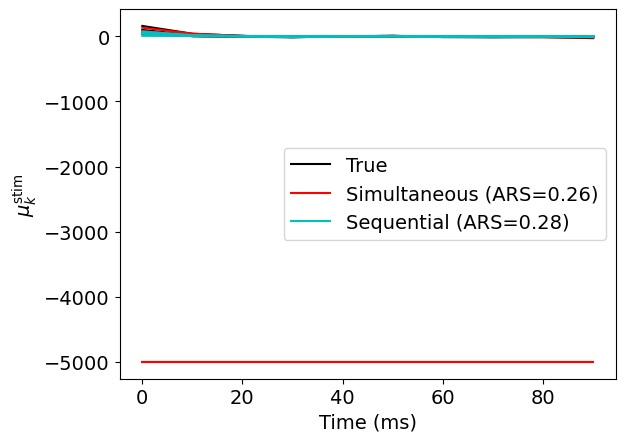
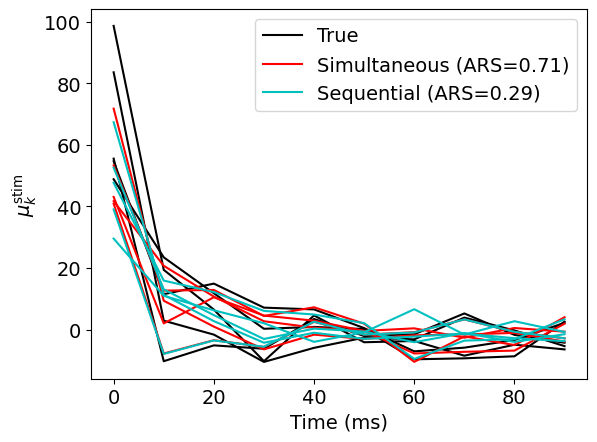
successful K=5

diff --git a/models.py b/models.py
@@ -93,7 +93,7 @@ def sim_GMMGLM_from_fit(D, drange = 20000, downsample=None):
     ks = ks[np.isin(ks,true_ks)]
     K_sim = 5
     true_mu_plus_cis = true_mus-2*true_sigmas/np.sqrt(d[0]+2)
-    which_k_over = np.array([-3 < true_mu_plus_cis[k,-1] + np.max(true_mu_plus_cis[k,d[0]:-1]) + np.sum(true_mu_plus_cis[k,:d[0]])*np.mean(np.max(sim_stim,axis=1)[true_ks==k]) and D['wts'][k]>0.03 for k in ks])
+    which_k_over = np.array([-2 < true_mu_plus_cis[k,-1] + np.max(true_mu_plus_cis[k,d[0]:-1]) + np.sum(true_mu_plus_cis[k,:d[0]])*np.mean(np.max(sim_stim,axis=1)[true_ks==k]) and D['wts'][k]>0.03 for k in ks])
     true_mu_plus_cis = true_mus+2*true_sigmas/np.sqrt(d[0]+2)
     which_k = np.argsort( np.array([true_mu_plus_cis[k,-1] + np.max(true_mu_plus_cis[k,d[0]:-1]) + np.sum(true_mu_plus_cis[k,:d[0]])*np.mean(np.max(sim_stim,axis=1)[true_ks==k]) + 1e10*D['wts'][k]<0.03 for k in ks]) + 1e10*(~which_k_over) )[:K_sim]
     sim_stim = sim_stim[np.isin(true_ks,ks[which_k])]
@@ -110,7 +110,7 @@ def sim_GMMGLM_from_fit(D, drange = 20000, downsample=None):
         while True:
             true_betas[n,:] = true_mus[true_ks[n],:]+np.random.normal(0,true_sigmas[true_ks[n],:])
             sim_spikes[n,:],rates[n,:] = sim_GLM(sim_stim[n:n+1,:],true_betas[n,:d[0]],true_betas[n,d[0]:d[0]+d[1]],true_betas[n,-1],downsample=downsample)
-            if True or (np.sum(rates[n,:]>1)<drange/10 and np.sum(sim_spikes[n,:])>1):
+            if (np.sum(rates[n,:]>1)<drange/20 and np.sum(sim_spikes[n,:])>2):
                 break
     clips = np.sum(rates>1,axis=1)
     print(clips,np.sum(sim_spikes,axis=1))
